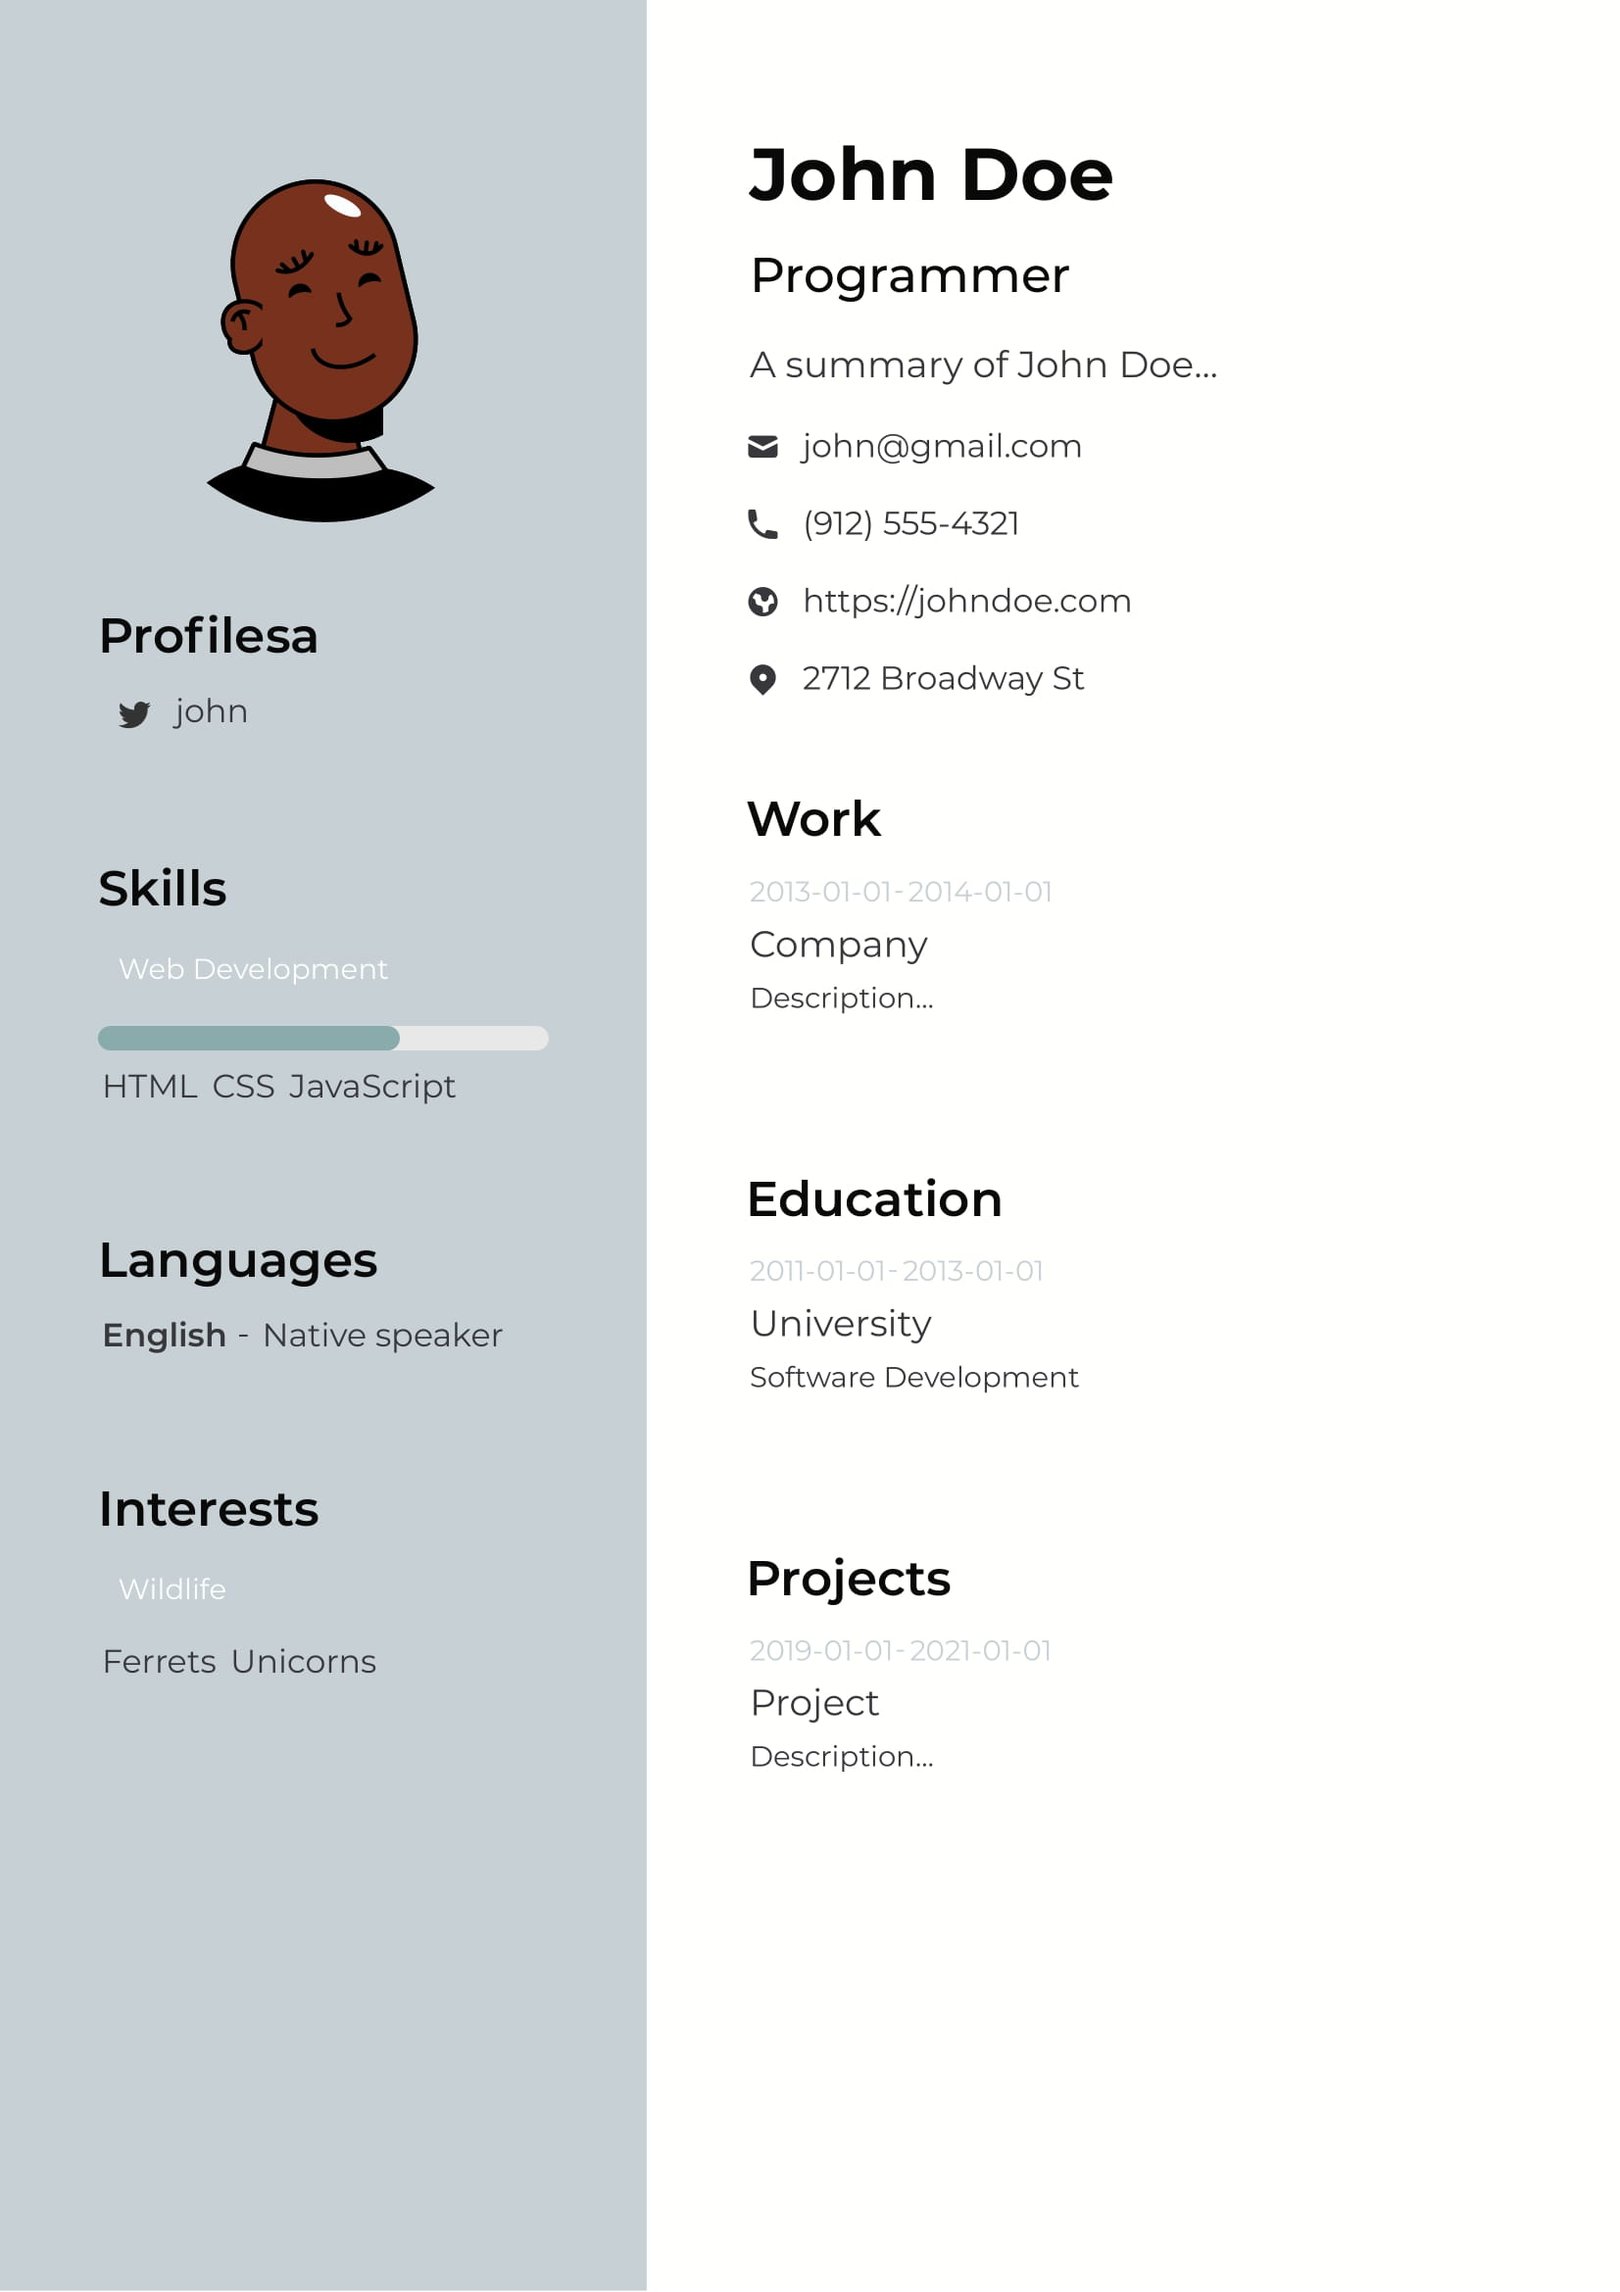
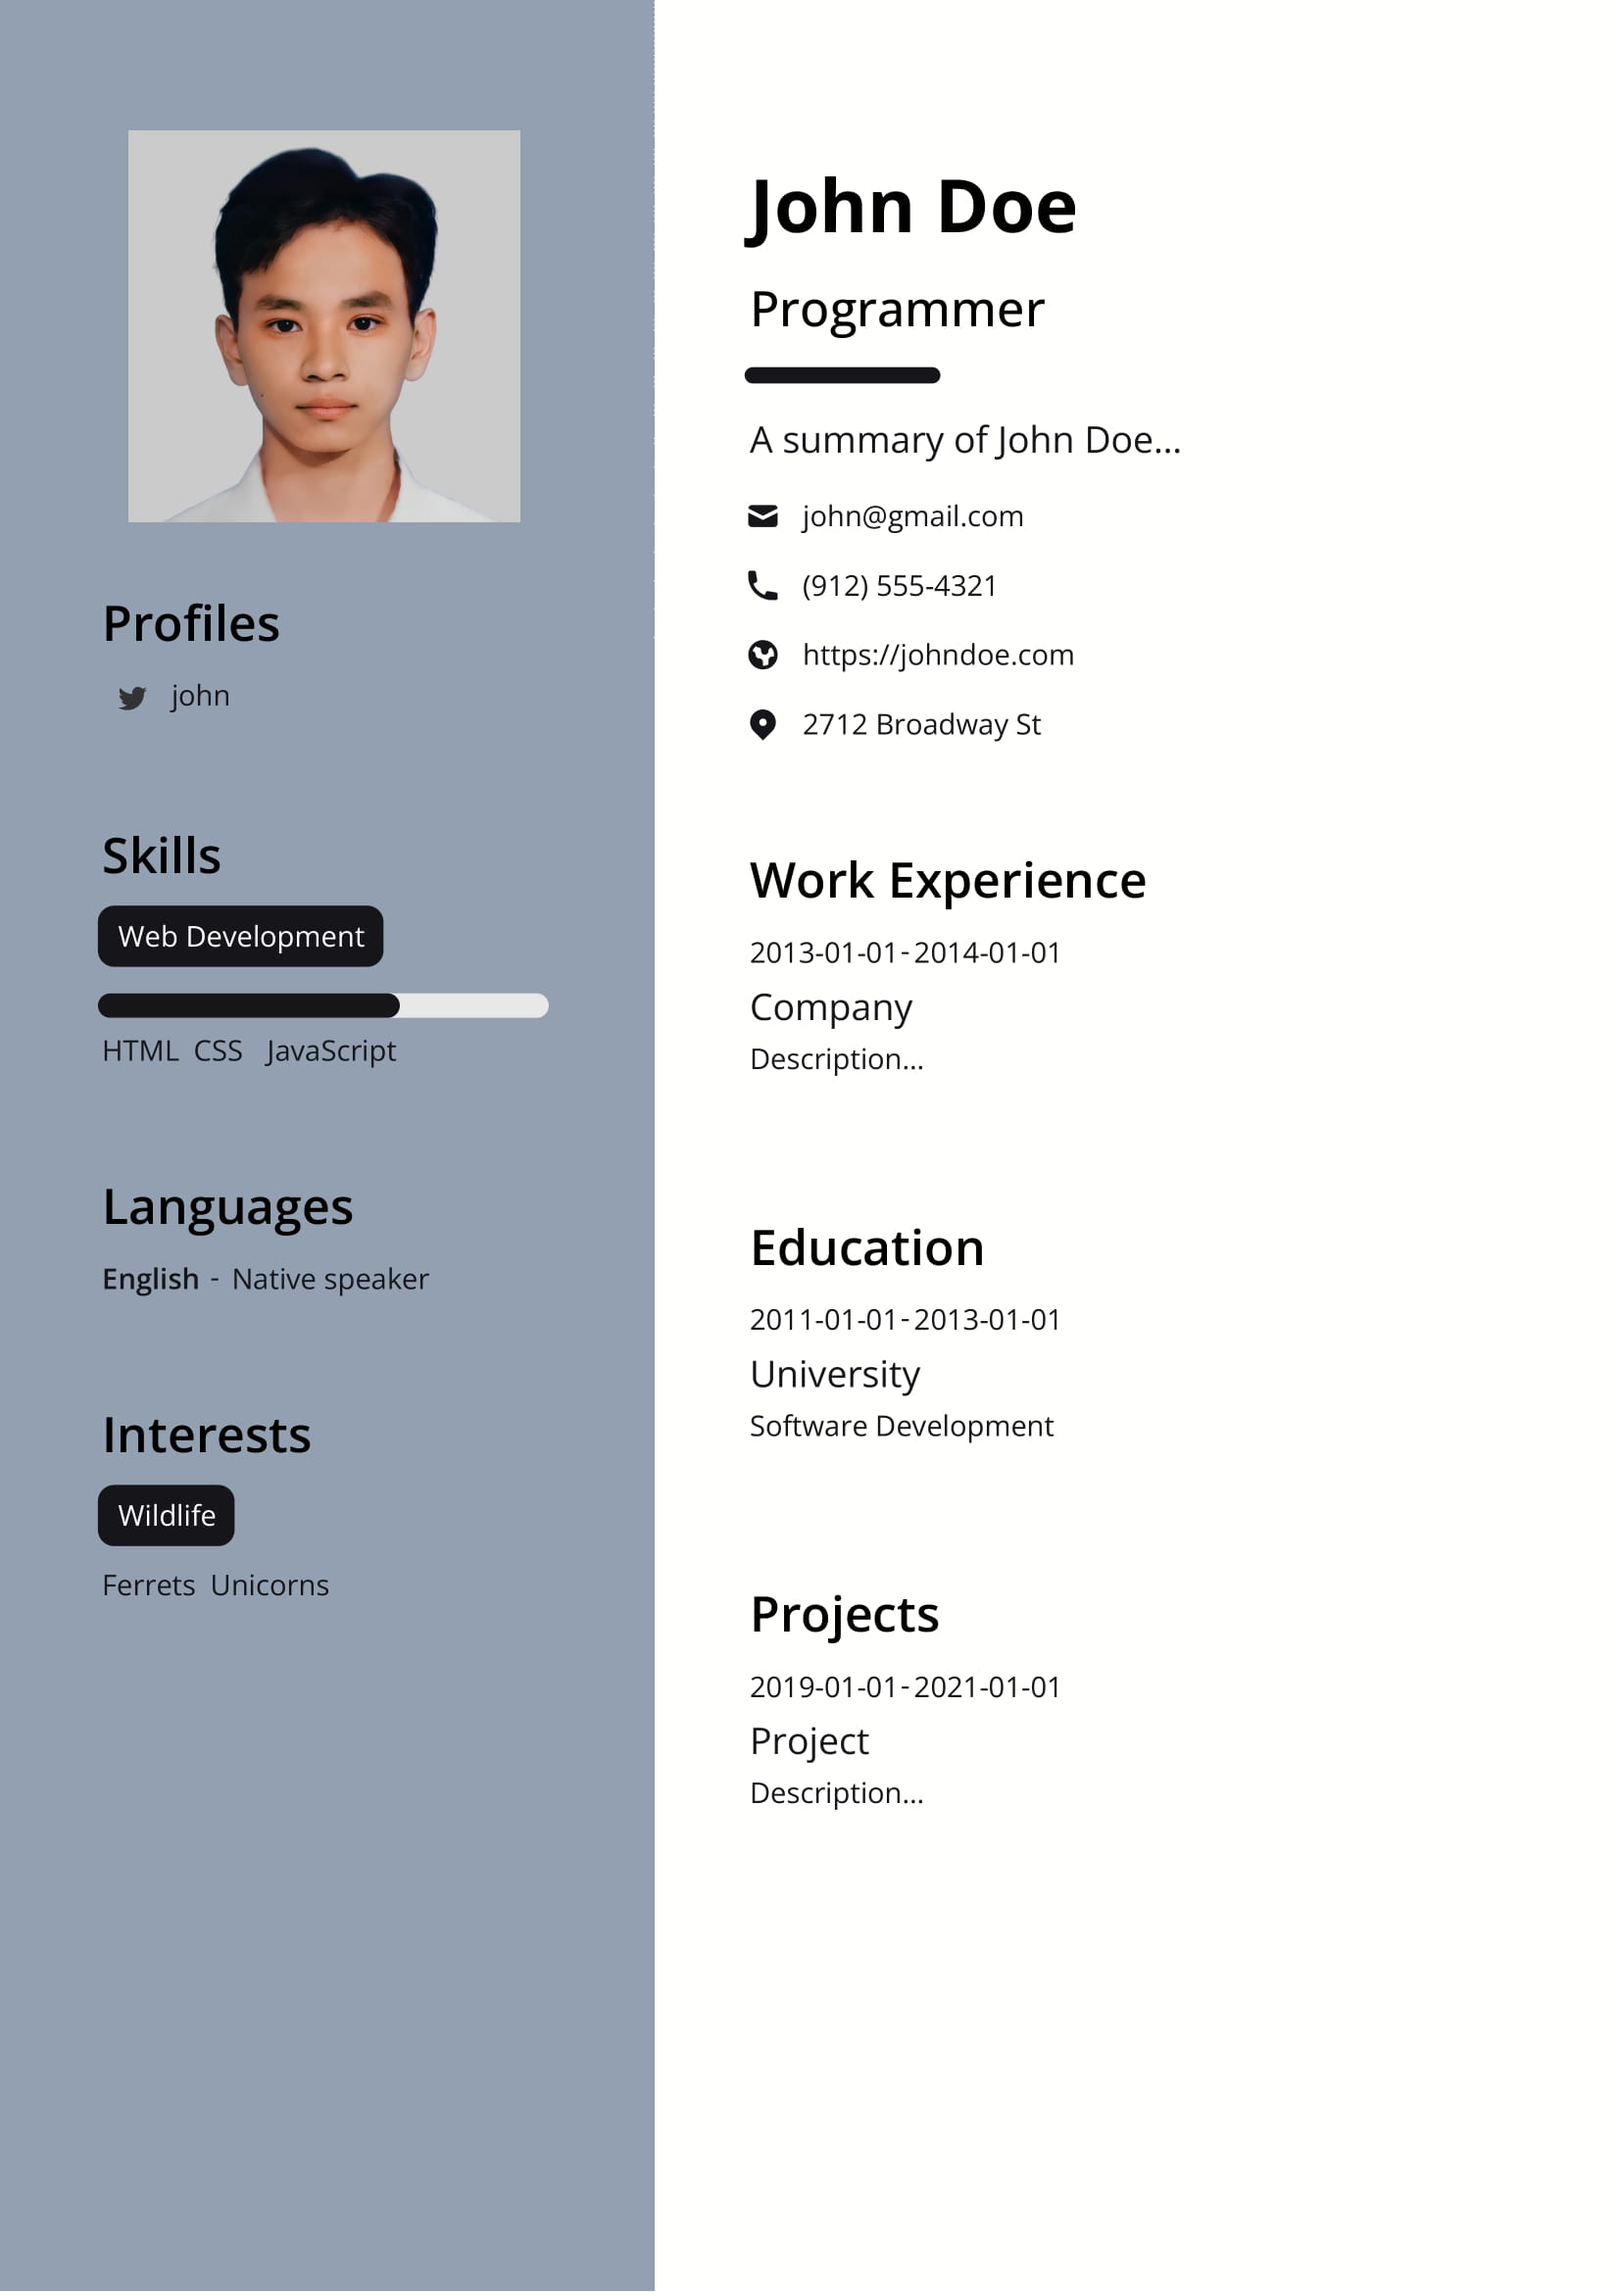
Update thumbnail

diff --git a/src/data/templateOptions.js b/src/data/templateOptions.js
@@ -1,12 +1,12 @@
 import Cartoon1 from '../templates/Cartoon1'
 import Cartoon2 from '../templates/Cartoon2'
 import Basic from '../templates/Basic'
-// import Simple from '../templates/Simple'
+import Simple from '../templates/Simple'
 
 export default [
   {
     name: 'Cartoon1',
-    thumbnail: '/assets/images/templates/cartoon1.jpg',
+    thumbnail: '/assets/images/templates/Cartoon1.jpg',
     component: Cartoon1,
     colors: {
       primary: '#3da9fc',
@@ -22,7 +22,7 @@ export default [
   },
   {
     name: 'Cartoon2',
-    thumbnail: '/assets/images/templates/cartoon2.jpg',
+    thumbnail: '/assets/images/templates/Cartoon2.jpg',
     component: Cartoon2,
     colors: {
       primary: '#4fc4cf',
@@ -38,13 +38,13 @@ export default [
   },
   {
     name: 'Basic',
-    thumbnail: '/assets/images/templates/basic.jpg',
+    thumbnail: '/assets/images/templates/Basic.jpg',
     component: Basic,
     colors: {
-      primary: '#3da9fc',
-      secondary: '#d8eefe',
-      heading: '#094067',
-      text: '#5f6c7b',
+      primary: '#16161a',
+      secondary: '#94a1b2',
+      heading: '#010101',
+      text: '#16161a',
       background: '#fffffe',
     },
     layout: [
@@ -52,16 +52,20 @@ export default [
       ['basics', 'work', 'education', 'projects', 'awards'],
     ],
   },
-  // {
-  //   name: 'Simple',
-  //   thumbnail: '/assets/images/templates/basic.jpg',
-  //   component: Simple,
-  //   colors: {
-  //     primary: '#3da9fc',
-  //     secondary: '#d8eefe',
-  //     heading: '#094067',
-  //     text: '#5f6c7b',
-  //     background: '#fffffe',
-  //   },
-  // },
+  {
+    name: 'Simple',
+    thumbnail: '/assets/images/templates/Simple.jpg',
+    component: Simple,
+    colors: {
+      primary: '#232323',
+      secondary: '#d8eefe',
+      heading: '#232323',
+      text: '#222525',
+      background: '#fffffe',
+    },
+    layout: [
+      ['profiles', 'skills', 'languages', 'interests'],
+      ['basics', 'work', 'education', 'projects', 'awards'],
+    ],
+  },
 ]

diff --git a/src/components/BlockWrapper.js b/src/components/BlockWrapper.js
@@ -2,6 +2,7 @@ import 'rc-slider/assets/index.css'
 import { useState } from 'react'
 import { DragDropContext, Droppable } from 'react-beautiful-dnd'
 import { useTranslation } from 'react-i18next'
+import Checkbox from 'rc-checkbox'
 import { FaLightbulb } from 'react-icons/fa'
 import { HiEyeOff } from 'react-icons/hi'
 import { MdSettings } from 'react-icons/md'
@@ -55,10 +56,8 @@ function BlockToolbar({ path }) {
               {Object.keys(detailsValue).map((key) => {
                 return (
                   <div className="space-x-2 flex items-center">
-                    <input
+                    <Checkbox
                       id={key}
-                      type="checkbox"
-                      name={key}
                       checked={detailsValue[key].visible}
                       onChange={(e) => {
                         dispatch({
@@ -70,7 +69,10 @@ function BlockToolbar({ path }) {
                         })
                       }}
                     />
-                    <label htmlFor={key} className="capitalize">
+                    <label
+                      htmlFor={key}
+                      className="flex-1 capitalize cursor-pointer"
+                    >
                       {key}
                     </label>
                   </div>

diff --git a/src/templates/Simple.js b/src/templates/Simple.js
@@ -42,10 +42,6 @@ function Basic({}, ref) {
                   className="text-2xl font-medium"
                 />
               )}
-              <span
-                style={{ backgroundColor: colors.primary }}
-                className="w-24 h-2 inline-block rounded-full"
-              ></span>
               {basicsDetails.summary.visible && (
                 <div className="flex items-center space-x-2">
                   <InlineToolbarEditor
@@ -107,16 +103,13 @@ function Basic({}, ref) {
 
   return (
     <>
-      <div
-        style={{
-          backgroundImage: `linear-gradient(to right, ${colors.secondary} 0% 40%, transparent 40%)`,
-        }}
-        className="absolute inset-0"
-      ></div>
       <section ref={ref} className="pt-16 grid grid-cols-5">
         <section className="col-span-2 space-y-4 px-8">
           <div className="flex justify-center">
-            <Avatar path="basics.image" className="overflow-hidden w-48" />
+            <Avatar
+              path="basics.image"
+              className="rounded-full overflow-hidden w-48"
+            />
           </div>
           <Droppable droppableId="0">
             {(provided) => (

diff --git a/src/data/initialState.js b/src/data/initialState.js
@@ -126,18 +126,18 @@ const initialState = {
     name: 'Untitled',
     font: 'Open Sans',
     colors: {
-      primary: '#3da9fc',
-      secondary: '#d8eefe',
-      heading: '#094067',
-      text: '#5f6c7b',
+      primary: '#16161a',
+      secondary: '#94a1b2',
+      heading: '#010101',
+      text: '#16161a',
       background: '#fffffe',
     },
     language: '',
-    template: 'Cartoon1',
-    thumbnail: '/assets/images/templates/cartoon1.jpg',
+    template: 'Basic',
+    thumbnail: '/assets/images/templates/basic.jpg',
     layout: [
-      ['basics', 'work', 'education', 'projects', 'awards'],
       ['profiles', 'skills', 'languages', 'interests'],
+      ['basics', 'work', 'education', 'projects', 'awards'],
     ],
     sections: {
       basics: {

diff --git a/src/pages/NotFound.js b/src/pages/NotFound.js
@@ -29,7 +29,7 @@ function NotFound() {
         <button className="bg-gray-400 rounded-full text-lg font-medium text-white px-4 py-2">
           Page not found
         </button>
-        <h1 className="text-7xl font-bold">Error 404!</h1>
+        <h1 className="dark:text-white text-7xl font-bold">Error 404!</h1>
         <p className="text-gray-400 text-xl font-medium">
           Create new resume or come back to the homepage
         </p>

diff --git a/src/components/ResumeListDeleted.js b/src/components/ResumeListDeleted.js
@@ -20,7 +20,7 @@ function ResumeListDeleted() {
   return (
     <>
       <Navbar />
-      <main className="py-8 container mx-auto flex-grow flex flex-col">
+      <main className="px-8 py-8 container mx-auto flex-grow flex flex-col">
         <Link
           to="/editor"
           className="group relative flex items-center justify-center w-16 h-16 mb-8 bg-gray-200 rounded-lg shadow-inner"

diff --git a/src/components/ResumeList.js b/src/components/ResumeList.js
@@ -21,7 +21,7 @@ function ResumeList() {
   return (
     <>
       <Navbar />
-      <main className="py-8 container mx-auto flex-grow flex flex-col">
+      <main className="px-8 py-8 container mx-auto flex-grow flex flex-col">
         <Link
           to="/editor/trash"
           className="group relative flex items-center justify-center w-16 h-16 mb-8 bg-gray-200 rounded-lg shadow-inner"
